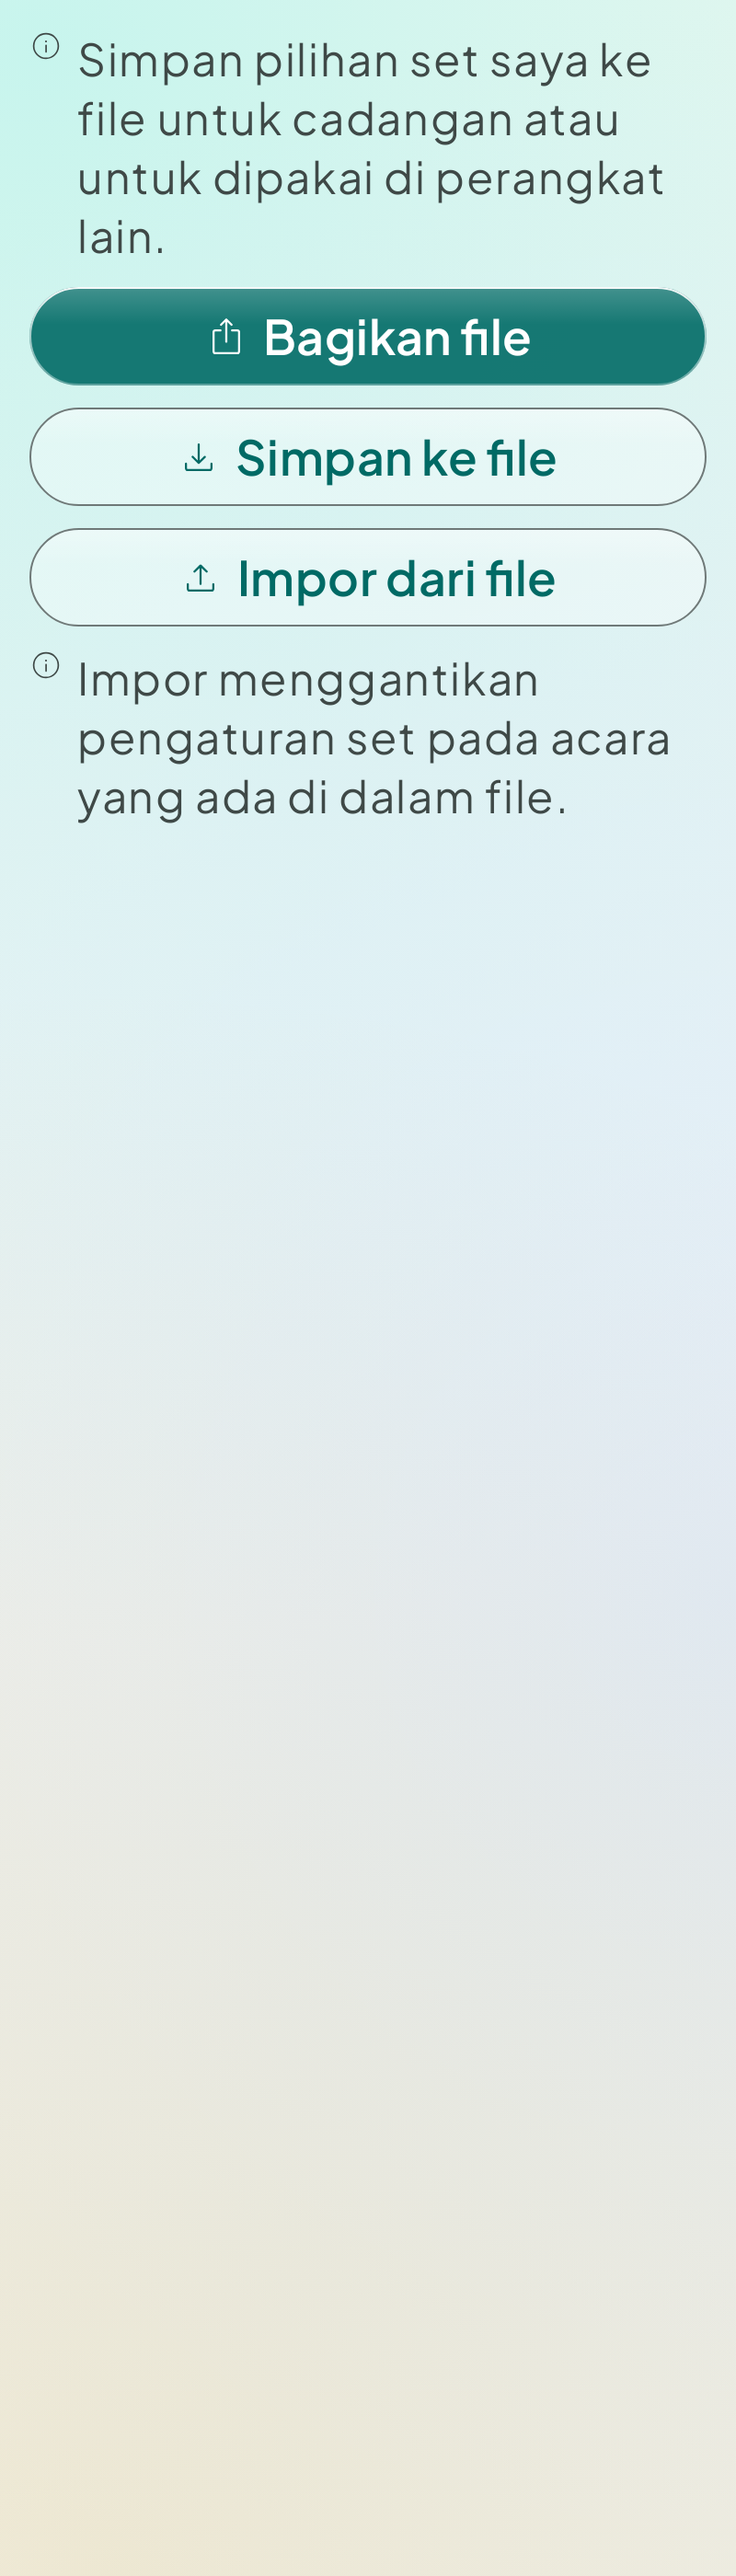
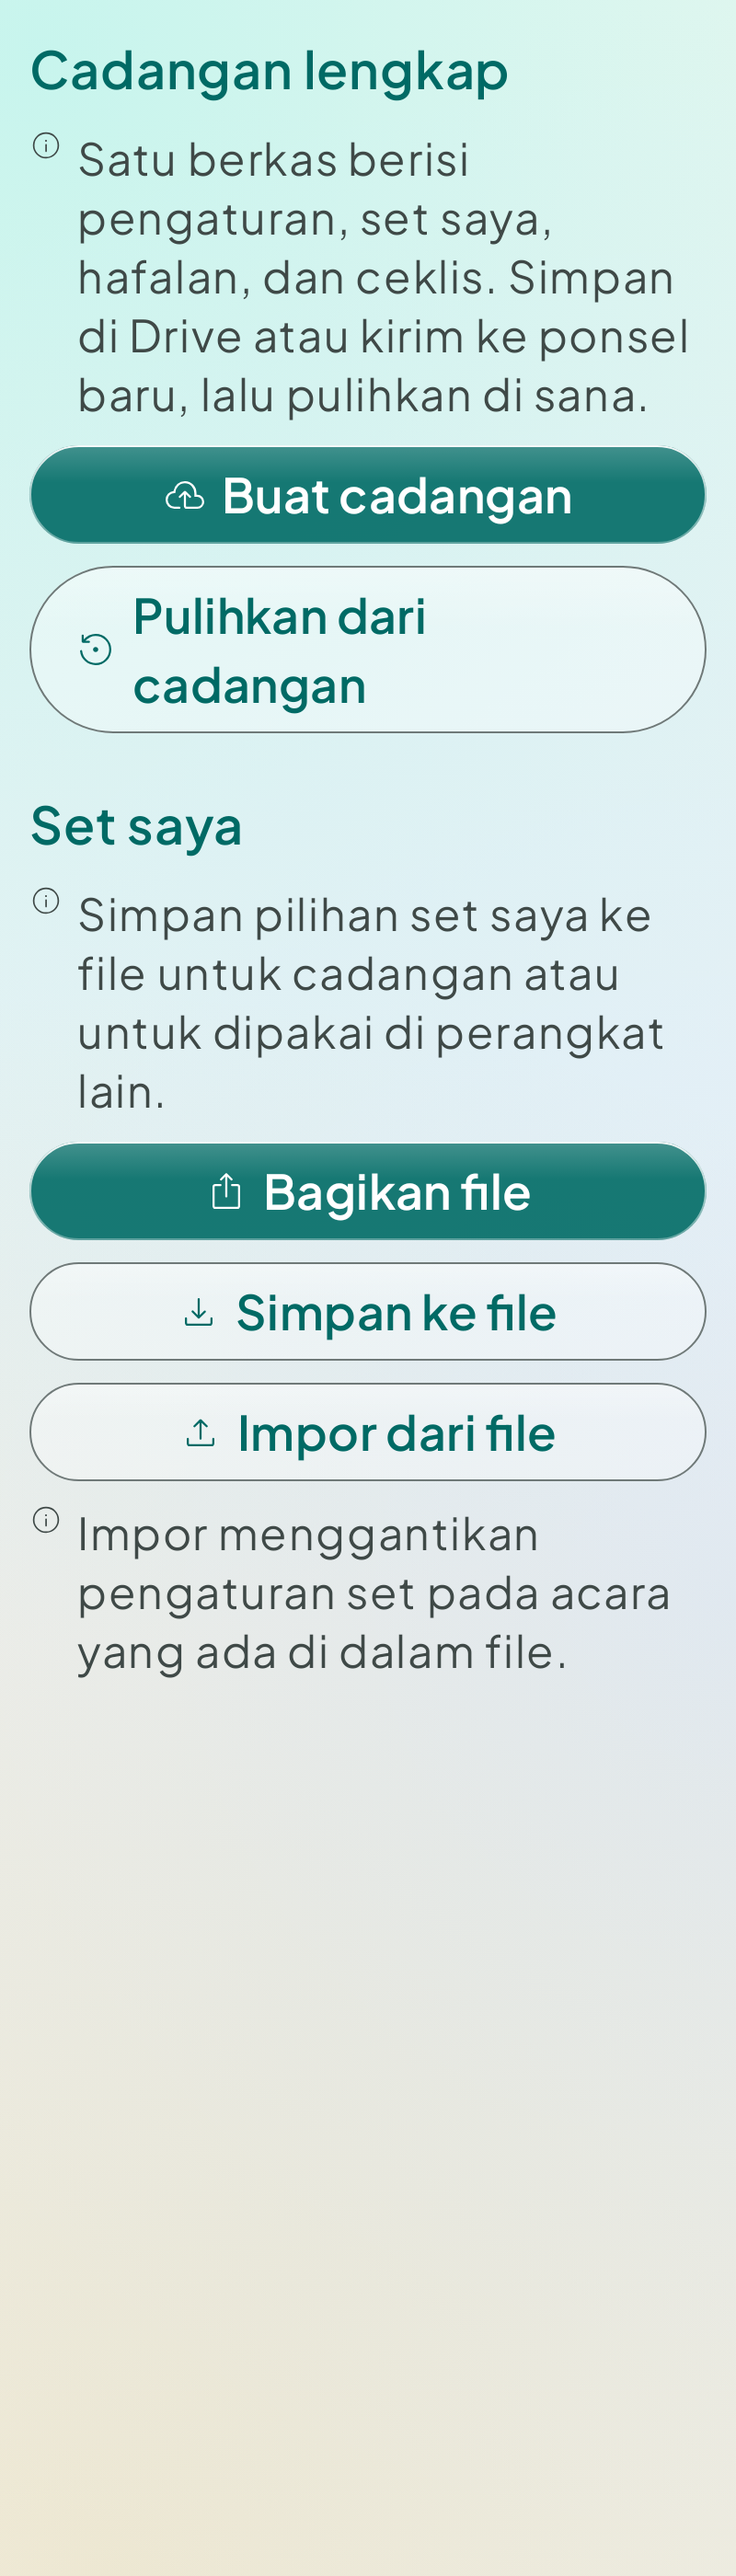
Full backup and restore
Settings → Cadangan dan set saya: one JSON file (format muslimdaily.backup v1) with every
setting (typed), personal sets, memorisation boxes and checklist ticks; restoring replaces all
of it after a confirmation, and refuses files that are not a backup. A sideloaded app gets no
Play backup, so this carries data to a new phone. Round-trip covered by BackupRepositoryTest.

Claude-Session: https://claude.ai/code/session_017UkjHqX5qKDRZrnQEnS1BM

Changed region(s): [[0.0312, 0.0, 0.9688, 0.6525]]

diff --git a/app/src/main/java/id/haho/muslimdaily/feature/settings/data/MySetsDataScreen.kt b/app/src/main/java/id/haho/muslimdaily/feature/settings/data/MySetsDataScreen.kt
@@ -33,6 +33,18 @@ import id.haho.muslimdaily.core.designsystem.component.AppScreen
 import id.haho.muslimdaily.core.designsystem.component.InfoNote
 import id.haho.muslimdaily.core.designsystem.theme.AppTheme
 import id.haho.muslimdaily.data.myset.MySetRepository
+import id.haho.muslimdaily.data.backup.BackupRepository
+import id.haho.muslimdaily.core.designsystem.glass.GlassAlertDialog
+import id.haho.muslimdaily.core.designsystem.glass.GlassTonalButton
+import androidx.compose.material3.TextButton
+import androidx.compose.runtime.getValue
+import androidx.compose.runtime.mutableStateOf
+import androidx.compose.runtime.setValue
+import androidx.compose.foundation.rememberScrollState
+import androidx.compose.foundation.verticalScroll
+import androidx.compose.ui.semantics.heading
+import androidx.compose.ui.semantics.semantics
+import java.time.LocalDate
 import kotlinx.coroutines.Dispatchers
 import kotlinx.coroutines.launch
 import kotlinx.coroutines.withContext
@@ -40,9 +52,14 @@ import java.io.File
 import javax.inject.Inject
 
 @HiltViewModel
-class MySetsDataViewModel @Inject constructor(private val repository: MySetRepository) : ViewModel() {
+class MySetsDataViewModel @Inject constructor(
+    private val repository: MySetRepository,
+    private val backup: BackupRepository,
+) : ViewModel() {
     suspend fun exportJson(): String = repository.exportJson()
     suspend fun importJson(text: String): Int = repository.importJson(text)
+    suspend fun backupJson(): String = backup.export()
+    suspend fun restore(text: String): BackupRepository.Summary = backup.restore(text)
 }
 
 private const val FILE_NAME = "muslimdaily-set-saya.json"
@@ -69,24 +86,87 @@ fun MySetsDataRoute(onBack: () -> Unit, viewModel: MySetsDataViewModel = hiltVie
         }
     }
 
+    val saveBackup = rememberLauncherForActivityResult(ActivityResultContracts.CreateDocument("application/json")) { uri ->
+        if (uri != null) scope.launch {
+            val ok = runCatching { write(context, uri, viewModel.backupJson()) }.isSuccess
+            say(if (ok) R.string.backup_saved else R.string.data_failed)
+        }
+    }
+    val openBackup = rememberLauncherForActivityResult(ActivityResultContracts.OpenDocument()) { uri ->
+        if (uri != null) scope.launch {
+            runCatching { viewModel.restore(read(context, uri)) }
+                .onSuccess { say(R.string.backup_restored, it.sets, it.reviews) }
+                .onFailure { say(R.string.backup_restore_failed) }
+        }
+    }
+    var confirmRestore by remember { mutableStateOf(false) }
+
     AppScreen(title = stringResource(R.string.settings_my_sets), onBack = onBack, snackbarHostState = snackbar) {
         MySetsDataContent(
             onShare = { scope.launch { share(context, viewModel.exportJson()) } },
             onSave = { save.launch(FILE_NAME) },
             onImport = { open.launch(arrayOf("application/json", "text/plain", "application/octet-stream")) },
+            onBackup = { saveBackup.launch("muslimdaily-cadangan-${LocalDate.now()}.json") },
+            onRestore = { confirmRestore = true },
+        )
+    }
+    if (confirmRestore) {
+        GlassAlertDialog(
+            onDismissRequest = { confirmRestore = false },
+            title = { androidx.compose.material3.Text(stringResource(R.string.backup_restore_confirm_title)) },
+            text = { androidx.compose.material3.Text(stringResource(R.string.backup_restore_confirm_body)) },
+            confirmButton = {
+                TextButton(onClick = {
+                    confirmRestore = false
+                    openBackup.launch(arrayOf("application/json", "text/plain", "application/octet-stream"))
+                }) { androidx.compose.material3.Text(stringResource(R.string.backup_restore_choose)) }
+            },
+            dismissButton = {
+                TextButton(onClick = { confirmRestore = false }) { androidx.compose.material3.Text(stringResource(R.string.action_cancel)) }
+            },
         )
     }
 }
 
 @Composable
-fun MySetsDataContent(onShare: () -> Unit, onSave: () -> Unit, onImport: () -> Unit) {
+fun MySetsDataContent(
+    onShare: () -> Unit,
+    onSave: () -> Unit,
+    onImport: () -> Unit,
+    onBackup: () -> Unit = {},
+    onRestore: () -> Unit = {},
+) {
     run {
         Column(
-            Modifier.fillMaxSize().padding(AppTheme.dimens.screenGutter),
+            Modifier.fillMaxSize().verticalScroll(rememberScrollState()).padding(AppTheme.dimens.screenGutter),
             verticalArrangement = Arrangement.spacedBy(AppTheme.spacing.md),
         ) {
+            androidx.compose.material3.Text(
+                stringResource(R.string.backup_title),
+                style = androidx.compose.material3.MaterialTheme.typography.titleMedium,
+                color = androidx.compose.material3.MaterialTheme.colorScheme.primary,
+                modifier = Modifier.semantics { heading() },
+            )
+            InfoNote(stringResource(R.string.backup_intro))
+            GlassButton(onClick = onBackup, modifier = Modifier.fillMaxWidth()) {
+                Icon(painterResource(R.drawable.ic_backup), null)
+                Spacer(Modifier.width(AppTheme.spacing.sm))
+                Text(stringResource(R.string.backup_create))
+            }
+            GlassOutlinedButton(onClick = onRestore, modifier = Modifier.fillMaxWidth()) {
+                Icon(painterResource(R.drawable.ic_settings_backup_restore), null)
+                Spacer(Modifier.width(AppTheme.spacing.sm))
+                Text(stringResource(R.string.backup_restore))
+            }
+            androidx.compose.material3.Text(
+                stringResource(R.string.data_my_sets_title),
+                style = androidx.compose.material3.MaterialTheme.typography.titleMedium,
+                color = androidx.compose.material3.MaterialTheme.colorScheme.primary,
+                modifier = Modifier.padding(top = AppTheme.spacing.lg).semantics { heading() },
+            )
             InfoNote(stringResource(R.string.data_intro))
-            GlassButton(onClick = onShare, modifier = Modifier.fillMaxWidth()) {
+            // One primary action per screen: the full backup. Sharing a set is secondary.
+            GlassTonalButton(onClick = onShare, modifier = Modifier.fillMaxWidth()) {
                 Icon(painterResource(R.drawable.ic_ios_share), null)
                 Spacer(Modifier.width(AppTheme.spacing.sm))
                 Text(stringResource(R.string.data_share))

diff --git a/app/src/main/java/id/haho/muslimdaily/data/backup/BackupRepository.kt b/app/src/main/java/id/haho/muslimdaily/data/backup/BackupRepository.kt
@@ -1,0 +1,90 @@
+package id.haho.muslimdaily.data.backup
+
+import androidx.room.withTransaction
+import id.haho.muslimdaily.BuildConfig
+import id.haho.muslimdaily.data.db.ChecklistEntity
+import id.haho.muslimdaily.data.db.ReviewItemEntity
+import id.haho.muslimdaily.data.db.UserDatabase
+import id.haho.muslimdaily.data.myset.MySetRepository
+import id.haho.muslimdaily.data.settings.SettingsRepository
+import kotlinx.serialization.Serializable
+import kotlinx.serialization.json.Json
+import java.time.Clock
+import java.time.Instant
+import javax.inject.Inject
+import javax.inject.Singleton
+
+/**
+ * One file with everything the user has made: settings, personal sets, memorisation progress
+ * and checklist ticks. Restoring replaces all of it. A sideloaded app gets no Play backup, so
+ * this is how data survives a new phone or a reinstall.
+ */
+@Singleton
+class BackupRepository @Inject constructor(
+    private val settings: SettingsRepository,
+    private val mySets: MySetRepository,
+    private val db: UserDatabase,
+    private val clock: Clock,
+) {
+    @Serializable
+    data class Setting(val type: String, val value: String)
+
+    @Serializable
+    data class Review(val duaId: String, val box: Int, val dueEpochDay: Long, val lastReviewedEpochDay: Long?, val addedEpochDay: Long)
+
+    @Serializable
+    data class Tick(val epochDay: Long, val itemKey: String)
+
+    @Serializable
+    data class BackupFile(
+        val format: String = FORMAT,
+        val version: Int = VERSION,
+        val createdAt: String,
+        val appVersion: String,
+        val settings: Map<String, Setting>,
+        /** The 'Set saya' export, as its own JSON document. */
+        val mySets: String,
+        val reviews: List<Review>,
+        val checklist: List<Tick>,
+    )
+
+    /** What a restore brought back, for the confirmation message. */
+    data class Summary(val settings: Int, val sets: Int, val reviews: Int, val checklist: Int)
+
+    private val json = Json { prettyPrint = true; ignoreUnknownKeys = true; encodeDefaults = true }
+
+    suspend fun export(): String {
+        val file = BackupFile(
+            createdAt = Instant.now(clock).toString(),
+            appVersion = BuildConfig.VERSION_NAME,
+            settings = settings.export().mapValues { (_, v) -> Setting(v.first, v.second) },
+            mySets = mySets.exportJson(),
+            reviews = db.reviewDao().all().map { Review(it.duaId, it.box, it.dueEpochDay, it.lastReviewedEpochDay, it.addedEpochDay) },
+            checklist = db.checklistDao().all().map { Tick(it.epochDay, it.itemKey) },
+        )
+        return json.encodeToString(BackupFile.serializer(), file)
+    }
+
+    /** Throws [IllegalArgumentException] for a file that is not a Muslim Daily backup. */
+    suspend fun restore(text: String): Summary {
+        val file = runCatching { json.decodeFromString(BackupFile.serializer(), text) }
+            .getOrElse { throw IllegalArgumentException("Not a backup file", it) }
+        require(file.format == FORMAT) { "Not a backup file" }
+        require(file.version <= VERSION) { "Backup from a newer version" }
+        val sets = mySets.importJson(file.mySets)
+        db.withTransaction {
+            db.reviewDao().deleteAll()
+            db.reviewDao().insertAll(file.reviews.map { ReviewItemEntity(it.duaId, it.box, it.dueEpochDay, it.lastReviewedEpochDay, it.addedEpochDay) })
+            db.checklistDao().deleteAll()
+            db.checklistDao().insertAll(file.checklist.map { ChecklistEntity(it.epochDay, it.itemKey) })
+        }
+        // Settings last: they trigger alarm rescheduling and widget redraws.
+        settings.restore(file.settings.mapValues { (_, s) -> s.type to s.value })
+        return Summary(file.settings.size, sets, file.reviews.size, file.checklist.size)
+    }
+
+    companion object {
+        const val FORMAT = "muslimdaily.backup"
+        const val VERSION = 1
+    }
+}

diff --git a/app/src/test/java/id/haho/muslimdaily/data/backup/BackupRepositoryTest.kt b/app/src/test/java/id/haho/muslimdaily/data/backup/BackupRepositoryTest.kt
@@ -1,0 +1,69 @@
+package id.haho.muslimdaily.data.backup
+
+import android.content.Context
+import androidx.room.Room
+import androidx.test.core.app.ApplicationProvider
+import androidx.test.ext.junit.runners.AndroidJUnit4
+import id.haho.muslimdaily.core.designsystem.theme.AppPalette
+import id.haho.muslimdaily.data.db.ChecklistEntity
+import id.haho.muslimdaily.data.db.EventItemEntity
+import id.haho.muslimdaily.data.db.EventPrefEntity
+import id.haho.muslimdaily.data.db.ReviewItemEntity
+import id.haho.muslimdaily.data.db.UserDatabase
+import id.haho.muslimdaily.data.myset.MySetRepository
+import id.haho.muslimdaily.data.settings.SettingsRepository
+import kotlinx.coroutines.test.runTest
+import org.junit.After
+import org.junit.Test
+import org.junit.runner.RunWith
+import java.time.Clock
+import java.time.LocalTime
+import kotlin.test.assertEquals
+import kotlin.test.assertFailsWith
+
+@RunWith(AndroidJUnit4::class)
+class BackupRepositoryTest {
+    private val context = ApplicationProvider.getApplicationContext<Context>()
+    private val db = Room.inMemoryDatabaseBuilder(context, UserDatabase::class.java).allowMainThreadQueries().build()
+    private val settings = SettingsRepository(context)
+    private val repo = BackupRepository(settings, MySetRepository(db), db, Clock.systemUTC())
+
+    @After fun close() = db.close()
+
+    @Test
+    fun `a backup restores settings, sets, reviews and ticks after everything is wiped`() = runTest {
+        settings.update {
+            palette = AppPalette.LAVENDER
+            remFasting = true
+            setFastingTime(LocalTime.of(21, 15))
+            arabicScale = 1.3f
+        }
+        db.mySetDao().upsertPref(EventPrefEntity("morning", true))
+        db.mySetDao().insertItems(listOf(EventItemEntity("morning", "morning_01", false, 0)))
+        db.reviewDao().upsert(ReviewItemEntity("wake_01", 3, 20_000, 19_990, 19_900))
+        db.checklistDao().insert(ChecklistEntity(20_000, "fard:FAJR"))
+
+        val text = repo.export()
+
+        settings.restore(emptyMap())
+        db.clearAllTables()
+        assertEquals(AppPalette.TEAL, settings.current().palette)
+
+        val summary = repo.restore(text)
+        val s = settings.current()
+        assertEquals(AppPalette.LAVENDER, s.palette)
+        assertEquals(true, s.reminders.fasting)
+        assertEquals(LocalTime.of(21, 15), s.reminders.fastingTime)
+        assertEquals(1.3f, s.arabicScale)
+        assertEquals(true, db.mySetDao().allPrefs().single().useMySet)
+        assertEquals(3, db.reviewDao().item("wake_01")!!.box)
+        assertEquals(listOf(ChecklistEntity(20_000, "fard:FAJR")), db.checklistDao().all())
+        assertEquals(1, summary.reviews)
+    }
+
+    @Test
+    fun `other files are refused`() = runTest {
+        assertFailsWith<IllegalArgumentException> { repo.restore("""{"format":"muslimdaily.mysets","events":[]}""") }
+        assertFailsWith<IllegalArgumentException> { repo.restore("hello") }
+    }
+}

diff --git a/app/src/main/java/id/haho/muslimdaily/data/settings/SettingsRepository.kt b/app/src/main/java/id/haho/muslimdaily/data/settings/SettingsRepository.kt
@@ -4,6 +4,7 @@ import android.content.Context
 import androidx.datastore.core.DataStore
 import androidx.datastore.preferences.core.MutablePreferences
 import androidx.datastore.preferences.core.Preferences
+import androidx.datastore.preferences.core.stringSetPreferencesKey
 import androidx.datastore.preferences.core.booleanPreferencesKey
 import androidx.datastore.preferences.core.doublePreferencesKey
 import androidx.datastore.preferences.core.edit
@@ -38,6 +39,41 @@ class SettingsRepository @Inject constructor(
 
     suspend fun update(block: SettingsEditor.() -> Unit) {
         store.edit { SettingsEditor(it).block() }
+    }
+
+    /** Every stored setting as (type, value text), for backups. Unset keys use their defaults. */
+    suspend fun export(): Map<String, Pair<String, String>> = store.data.first().asMap().entries.associate { (key, value) ->
+        key.name to when (value) {
+            is Boolean -> "boolean" to value.toString()
+            is Int -> "int" to value.toString()
+            is Long -> "long" to value.toString()
+            is Float -> "float" to value.toString()
+            is Double -> "double" to value.toString()
+            is String -> "string" to value
+            is Set<*> -> "string_set" to value.joinToString("\u001F")
+            else -> "string" to value.toString()
+        }
+    }
+
+    /** Replaces all settings with a backup's. Unknown types are skipped. */
+    suspend fun restore(values: Map<String, Pair<String, String>>) {
+        store.edit { prefs ->
+            prefs.clear()
+            values.forEach { (name, typed) ->
+                val (type, v) = typed
+                runCatching {
+                    when (type) {
+                        "boolean" -> prefs[booleanPreferencesKey(name)] = v.toBooleanStrict()
+                        "int" -> prefs[intPreferencesKey(name)] = v.toInt()
+                        "long" -> prefs[longPreferencesKey(name)] = v.toLong()
+                        "float" -> prefs[floatPreferencesKey(name)] = v.toFloat()
+                        "double" -> prefs[doublePreferencesKey(name)] = v.toDouble()
+                        "string" -> prefs[stringPreferencesKey(name)] = v
+                        "string_set" -> prefs[stringSetPreferencesKey(name)] = if (v.isEmpty()) emptySet() else v.split("\u001F").toSet()
+                    }
+                }
+            }
+        }
     }
 
     private fun Preferences.toSettings(): AppSettings {

diff --git a/app/src/main/java/id/haho/muslimdaily/data/db/UserDatabase.kt b/app/src/main/java/id/haho/muslimdaily/data/db/UserDatabase.kt
@@ -156,6 +156,12 @@ interface ChecklistDao {
     suspend fun delete(epochDay: Long, itemKey: String)
 
     @Query("DELETE FROM checklist WHERE epochDay < :epochDay") suspend fun deleteBefore(epochDay: Long)
+
+    @Query("SELECT * FROM checklist ORDER BY epochDay, itemKey") suspend fun all(): List<ChecklistEntity>
+
+    @Query("DELETE FROM checklist") suspend fun deleteAll()
+
+    @Insert(onConflict = OnConflictStrategy.REPLACE) suspend fun insertAll(items: List<ChecklistEntity>)
 }
 
 @Dao
@@ -181,4 +187,10 @@ interface ReviewDao {
     @Upsert suspend fun upsert(item: ReviewItemEntity)
 
     @Query("DELETE FROM review_items WHERE duaId = :duaId") suspend fun delete(duaId: String)
+
+    @Query("SELECT * FROM review_items ORDER BY duaId") suspend fun all(): List<ReviewItemEntity>
+
+    @Query("DELETE FROM review_items") suspend fun deleteAll()
+
+    @Insert(onConflict = OnConflictStrategy.REPLACE) suspend fun insertAll(items: List<ReviewItemEntity>)
 }
